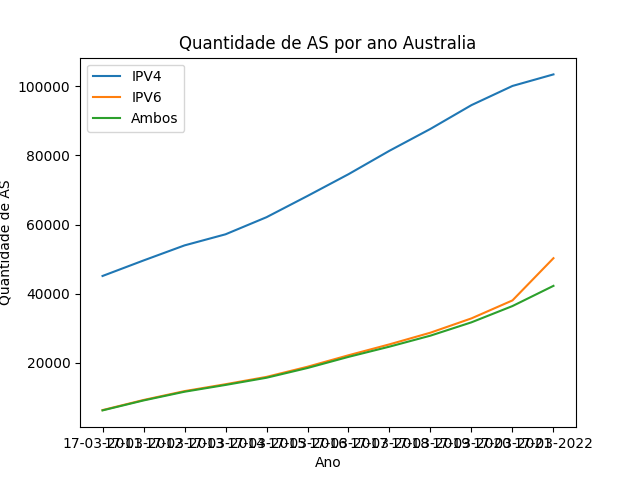
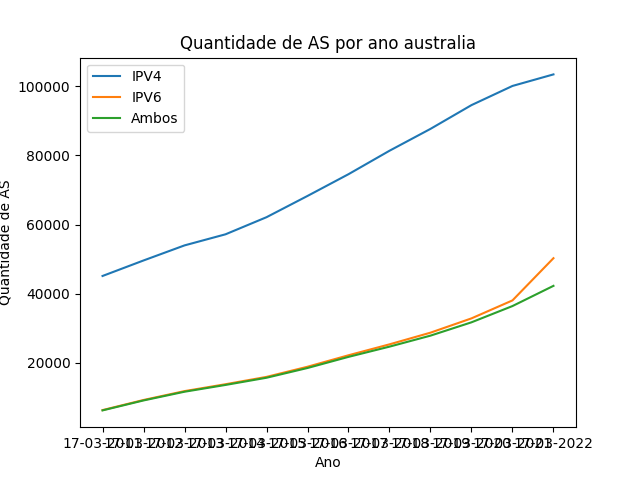
definindo

Changed region(s): [[0.2812, 0.0625, 0.75, 0.125]]

diff --git a/trabalho_de_redes/main.py b/trabalho_de_redes/main.py
@@ -5,15 +5,18 @@ import matplotlib.pyplot as plt
 
 def main():
 
-        layout = [[sg.Text('Selecione o Pais que deseja ver o grafico')],
-        [sg.Button('Quenia'),sg.Button('Brasil'),sg.Button('EUA'),sg.Button('Australia')],
-        [sg.Image(filename='', key='graph')],
+        layout = [[sg.Text('Selecione o Pais que deseja ver o grafico em linha')],
+        [sg.Button('Quenia em linha'),sg.Button('Brasil em linha'),sg.Button('EUA em linha'),sg.Button('Australia em linha')],
+        [sg.Text('Selecione o Pais que deseja ver o grafico em barra')],
+        [sg.Button('Quenia em barra'),sg.Button('Brasil em barra'),sg.Button('EUA em barra'),sg.Button('Australia em barra')],
+        [sg.Text('Grafico')],
+        [sg.Image(filename=graph, key='graph')],
         [sg.Button('Sair')]]
 
         window = sg.Window('Grafico', layout)
         return window
 
-def grafico(window, pais):
+def grafico_linha(window, pais):
         # Inicializar as variáveis que armazenarão os dados
         ipv4_counts = []
         ipv6_counts = []
@@ -64,25 +67,96 @@ def grafico(window, pais):
         plt.legend()
         plt.savefig('trabalho_de_redes/grafico.png')
         plt.close()
-        return window['graph'].update(filename='trabalho_de_redes/grafico.png')
+
+def grafico_barra(window, pais):
+        # Inicializar as variáveis que armazenarão os dados
+        ipv4_counts = []
+        ipv6_counts = []
+        both_counts = []
+        dates = []
+
+        # Iterar sobre cada um dos arquivos
+        for year in range(2011, 2023):
+            # Ler o arquivo
+            with open(f"trabalho_de_redes/{pais}/rib{year}.txt", "r") as f:
+                lines = f.readlines()
+
+            # Inicializar as variáveis de contagem para este ano
+            ipv4_count = 0
+            ipv6_count = 0
+            both_count = 0
+
+            # Iterar sobre cada linha do arquivo
+            for line in lines:
+                # Procurar pelo padrão de texto correspondente a cada tipo de AS
+                ipv4_match = re.search(r"Total de AS que possuem IPV4: \d+", line)
+                ipv6_match = re.search(r"Total de AS que possuem IPV6: \d+", line)
+                both_match = re.search(r"Total de AS que possuem IPV4 e IPV6: \d+", line)
+
+                # Se o padrão de texto foi encontrado, extrair o número e adicioná-lo à contagem
+                if ipv4_match:
+                    ipv4_count += int(ipv4_match.group(0).split()[-1])
+                if ipv6_match:
+                    ipv6_count += int(ipv6_match.group(0).split()[-1])
+                if both_match:
+                    both_count += int(both_match.group(0).split()[-1])
+
+            # Adicionar as contagens para este ano às listas de resultados
+            ipv4_counts.append(ipv4_count)
+            ipv6_counts.append(ipv6_count)
+            both_counts.append(both_count)
+
+            # Adicionar a data para este ano à lista de datas
+            dates.append(f"17-03-{year}")
+
+        # Plotar o gráfico usando as listas de resultados e datas
+        plt.title(f"Quantidade de AS por ano {pais}")
+        plt.bar(dates, ipv4_counts, label="IPV4")
+        plt.bar(dates, ipv6_counts, label="IPV6")
+        plt.bar(dates, both_counts, label="Ambos")
+        plt.xlabel("Ano")
+        plt.ylabel("Quantidade de AS")
+        plt.legend()
+        plt.savefig('trabalho_de_redes/grafico.png')
+        plt.close()
+
+
+graph = ''
 
 while True:
         window = main()
         event, values = window.read()
         if event == sg.WIN_CLOSED:
             break
-        elif event == 'Quenia':
-            grafico(window, 'Quenia')
-            window['graph'].update(filename='trabalho_de_redes/grafico.png')
-        elif event == 'Brasil':
-            grafico(window, 'Brasil')
-            window['graph'].update(filename='trabalho_de_redes/grafico.png')
-        elif event == 'EUA':
-            grafico(window, 'EUA')
-            window['graph'].update(filename='trabalho_de_redes/grafico.png')
-        elif event == 'Australia':
-            grafico(window, 'Australia')
-            window['graph'].update(filename='trabalho_de_redes/grafico.png')
+        elif event == 'Quenia em linha':
+            grafico_linha(window, 'quenia')
+            graph = 'trabalho_de_redes/grafico.png'
+            window.refresh()
+        elif event == 'Brasil em linha':
+            grafico_linha(window, 'brasil')
+            graph = 'trabalho_de_redes/grafico.png'
+            window.refresh()
+        elif event == 'EUA em linha':
+            grafico_linha(window, 'EUA')
+            graph = 'trabalho_de_redes/grafico.png'
+            window.refresh()
+        elif event == 'Australia em linha':
+            grafico_linha(window, 'australia')
+            graph = 'trabalho_de_redes/grafico.png'
+            window.refresh()
+        elif event == 'Quenia em barra':
+            grafico_barra(window, 'quenia')
+            window.refresh()
+        elif event == 'Brasil em barra':
+            grafico_barra(window, 'brasil')
+            window.refresh()
+        elif event == 'EUA em barra':
+            grafico_barra(window, 'EUA')
+            window.refresh()
+        elif event == 'Australia em barra':
+            grafico_barra(window, 'australia')
+            window.refresh()
         elif event == 'Sair':
             break
         window.refresh()
+        
